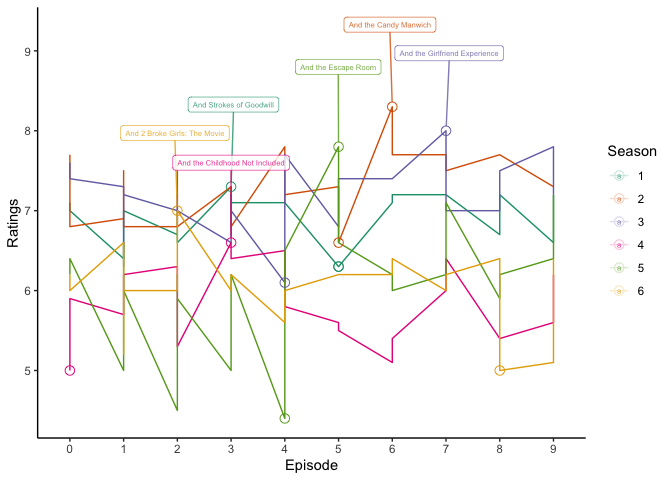
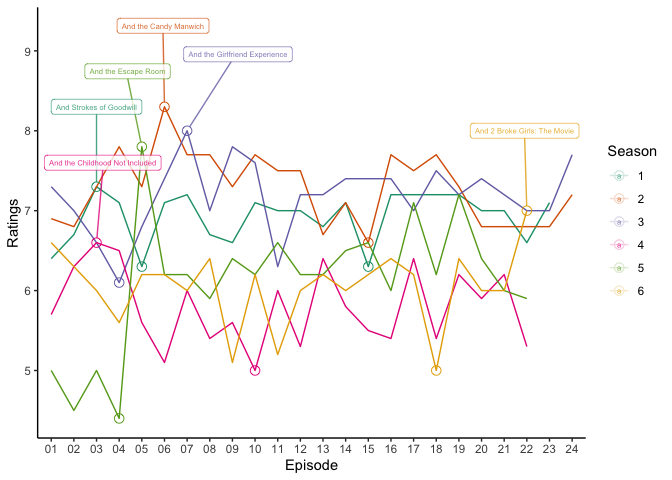
finalversion

diff --git a/Projects/caoman199711/SolutionforMannew.md b/Projects/caoman199711/SolutionforMannew.md
@@ -15,53 +15,23 @@
     library(readxl)
     library(ggrepel)
 
-    file <- "/Users/huangziyi/Season1-6.xlsx"
+    data <- list()
+    for (n in 1:6) {
+    data [[n]] <- read_excel("/Users/huangziyi/Season1-6.xlsx", sheet = str_c("Season",n)) %>%select("Episode", "Ratings", "Title")} 
 
-    file1 <- read_excel("/Users/huangziyi/Season1-6.xlsx", sheet = "Season1") %>% select("Episode", "Ratings", "Title")
-
+    ## New names:
+    ## New names:
+    ## New names:
+    ## New names:
+    ## New names:
     ## New names:
     ## • `` -> `...2`
     ## • `Viewers` -> `Viewers...7`
     ## • `Viewers` -> `Viewers...8`
 
-    file2 <- read_excel("/Users/huangziyi/Season1-6.xlsx", sheet = "Season2") %>%select("Episode", "Ratings", "Title")
-
-    ## New names:
-    ## • `` -> `...2`
-    ## • `Viewers` -> `Viewers...7`
-    ## • `Viewers` -> `Viewers...8`
-
-    file3 <- read_excel("/Users/huangziyi/Season1-6.xlsx", sheet = "Season3") %>% select("Episode", "Ratings", "Title")
-
-    ## New names:
-    ## • `` -> `...2`
-    ## • `Viewers` -> `Viewers...7`
-    ## • `Viewers` -> `Viewers...8`
-
-    file4 <- read_excel("/Users/huangziyi/Season1-6.xlsx", sheet = "Season4") %>%select("Episode", "Ratings", "Title")
-
-    ## New names:
-    ## • `` -> `...2`
-    ## • `Viewers` -> `Viewers...7`
-    ## • `Viewers` -> `Viewers...8`
-
-    file5 <- read_excel("/Users/huangziyi/Season1-6.xlsx", sheet = "Season5") %>%select("Episode", "Ratings", "Title")
-
-    ## New names:
-    ## • `` -> `...2`
-    ## • `Viewers` -> `Viewers...7`
-    ## • `Viewers` -> `Viewers...8`
-
-    file6 <- read_excel("/Users/huangziyi/Season1-6.xlsx", sheet = "Season6") %>% select("Episode", "Ratings", "Title")
-
-    ## New names:
-    ## • `` -> `...2`
-    ## • `Viewers` -> `Viewers...7`
-    ## • `Viewers` -> `Viewers...8`
-
-    file <- bind_rows(file1, file2, file3, file4, file5, file6) %>%
+    file <- bind_rows(data[1:6]) %>%
       mutate (Season= str_c(str_sub(Episode,start=2,end=2))) %>%
-      mutate (Show=str_c(str_sub(Episode,start=5,end=5))) %>%
+      mutate (Show=str_c(str_sub(Episode,start=4,end=5))) %>%
       drop_na()
 
     Highest<- file%>%group_by(Season)%>%slice_max(Ratings)
@@ -73,7 +43,7 @@
       labs(colour = "Season", x="Episode") +
       geom_point (data = Highest, size=3, shape=21, fill="transparent") +
       geom_point (data = Lowest, size=3, shape=21, fill="transparent") +
-      geom_label_repel(aes(label=(as.character(Highest$Title))),
+      geom_label_repel(aes(label=Title),
                       data=Highest,
                        box.padding= 0.35, 
                        point.padding = 0.5,
